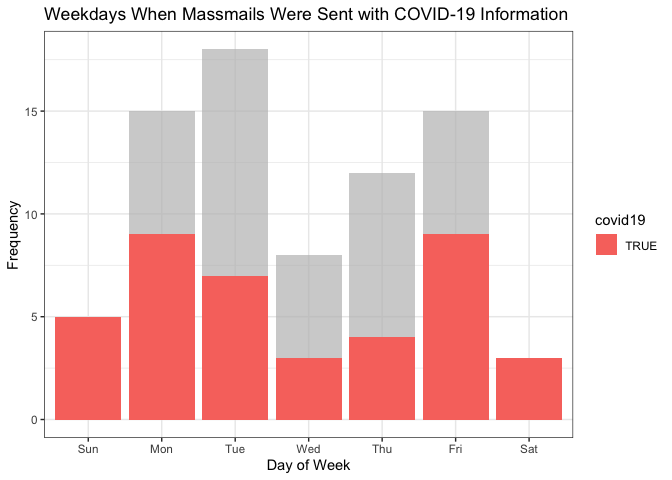
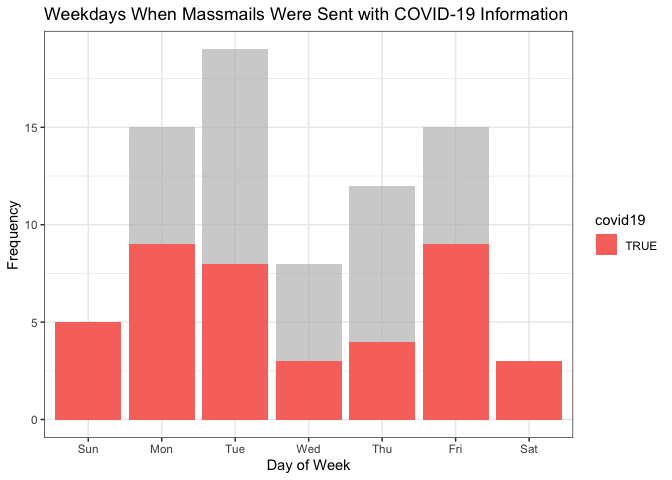
Re-build README.Rmd and Graphs

diff --git a/README.md b/README.md
@@ -17,7 +17,7 @@ The archive may be viewed here:
 
 <https://massmail.illinois.edu/massmailArchive>
 
-Data has **1118** observations and **7** variables:
+Data has **1119** observations and **7** variables:
 
   - `datetime`: Date and time when the email was sent in the form of
     `YYYY-MM-DD HMS` with either CDT or CST.
@@ -205,16 +205,16 @@ head(most_popular_words, 10) %>%
 
 | word        | freq |
 | :---------- | ---: |
-| students    |  302 |
-| university  |  240 |
-| campus      |  230 |
-| faculty     |  134 |
-| information |  131 |
-| illinois    |  127 |
-| student     |  124 |
+| students    |  303 |
+| university  |  242 |
+| campus      |  234 |
+| faculty     |  136 |
+| information |  132 |
+| illinois    |  128 |
+| student     |  125 |
 | community   |  121 |
-| staff       |  110 |
-| health      |  109 |
+| health      |  111 |
+| staff       |  111 |
 
 #### Wordcloud
 
